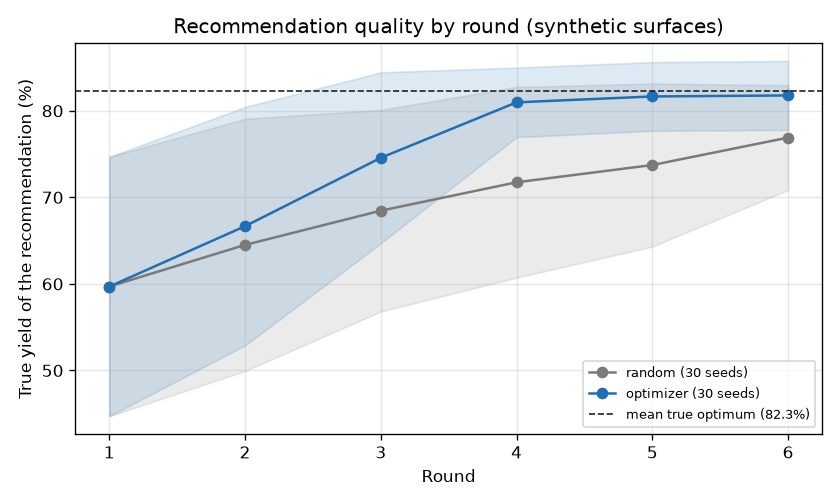
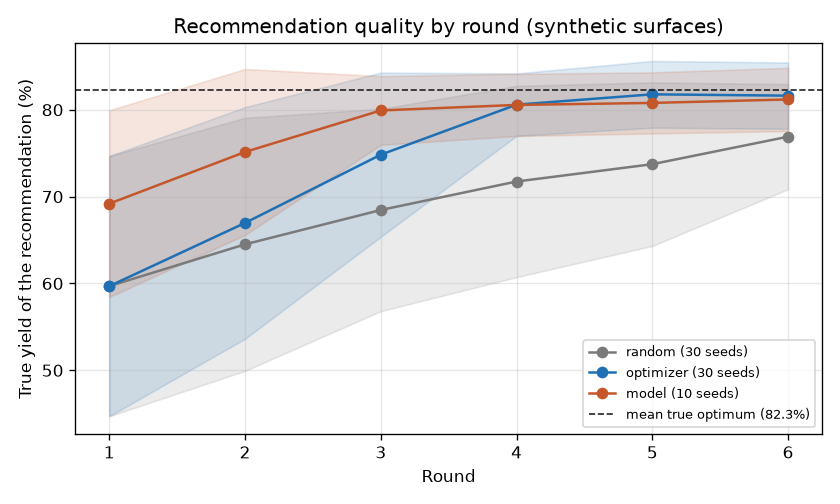
Publish the live benchmark with the model decider on 10 surfaces
The model decider (qwen3.8:27b) did not beat the optimizer: after round 6
it averaged 81.2% true yield against 81.0% on the same 10 surfaces, and
ended within 3 points on 9 of 10 against 10 of 10. README, concepts, and
decisions say so plainly, as SPEC 9.10 asks.

diff --git a/README.md b/README.md
@@ -351,7 +351,7 @@ Commands: `labauto plan "<request>"`, `labauto status <run>`, `labauto approve <
 | NMR readout and spectrum evaluator | simulated, synthetic spectra; the evaluator is classical least squares, tested on synthetic spectra only ([docs/nmr.md](docs/nmr.md)) |
 | Pairing and data reviewer (overwatch) | built and tested; run live on qwen3.8:27b on 12 synthetic fault cases, one trial each, with and without its hint section; it caught 12 and 8 of 13 faults, and two fixed statistics rules caught 13 ([results](#paired-lcms-and-nmr-and-a-data-reviewer)) |
 | Closed loop | built, simulated |
-| Model decider, report model note | built and tested; run live once on qwen3.8:27b (one 6-round campaign, replayed in the demo); the benchmark's model rows are pending |
+| Model decider, report model note | built and tested; run live on qwen3.8:27b in one 6-round campaign (replayed in the demo) and in the benchmark on 10 surfaces, where it did not beat the optimizer |
 | Service API, skill library | not built |
 | Real hardware, LIMS or ELN, cluster deployment | not built |
 
@@ -382,25 +382,41 @@ What these show:
 - Before that change, the most common wrong factor name was `encoding`: the model's reasoning named the factor correctly (`base_equiv`), but the JSON it returned under the server's grammar named it `encoding`. The checks caught it every time. The repair fixed it in 4 of the 8 trials where it happened. In the other 4, the model repeated the same names and the run went to a person; those are all 4 qwen3.8:27b hand-offs in the generic rows. The schema sent to the server now lists the assay's factor names (`reply_schema` in `src/labauto/agents/planner.py`), so the grammar no longer allows another key.
 - Faithful catches what valid does not: scenario 04 ("around our usual conditions") is the one request the model still gets wrong while passing every check. It screened base levels without the usual 1.5 equiv in 2 of 5 trials in each generic run, and in 1 of 5 in each run with factor names.
 
-Closed loop benchmark, from `labauto benchmark --strategies random,optimizer,model --seeds 30 --model-seeds 3 --rounds 6` ([docs/benchmark.md](docs/benchmark.md)). Each of 30 seeds is a different synthetic surface. The score is the true yield of each round's recommendation. This run used the fast path: the plan's volumes stand in for the simulator's ledger.
+Closed loop benchmark, from `labauto benchmark --strategies random,optimizer,model --seeds 30 --model-seeds 10 --rounds 6 --run-dir runs/benchmark/live` ([docs/benchmark.md](docs/benchmark.md)). Each seed is a different synthetic surface. After each round, the recommendation is the tested condition with the highest measured mean, and it is scored by its true yield. This run used the fast path: the plan's volumes stand in for the simulator's ledger. Random and the optimizer ran on 30 surfaces. The model decider (qwen3.8:27b) ran on the first 10, because each of its rounds takes model time.
 
 ![Benchmark](docs/img/benchmark.png)
 
-Mean true yield of the recommendation (%):
+Over all 30 surfaces, random and the optimizer. Mean true yield of the recommendation (%), and below it the share of surfaces within 3 points of the optimum:
 
 | Strategy | Seeds | Round 1 | Round 2 | Round 3 | Round 4 | Round 5 | Round 6 |
 |---|---|---|---|---|---|---|---|
 | random | 30 | 59.7 | 64.5 | 68.5 | 71.7 | 73.7 | 76.9 |
-| optimizer | 30 | 59.7 | 66.7 | 74.6 | 81.0 | 81.7 | 81.8 |
-
-Share of seeds within 3 points of the optimum:
+| optimizer | 30 | 59.7 | 67.0 | 74.8 | 80.6 | 81.8 | 81.6 |
 
 | Strategy | Seeds | Round 1 | Round 2 | Round 3 | Round 4 | Round 5 | Round 6 |
 |---|---|---|---|---|---|---|---|
 | random | 30 | 0.07 | 0.17 | 0.20 | 0.30 | 0.30 | 0.37 |
-| optimizer | 30 | 0.07 | 0.27 | 0.43 | 0.80 | 0.97 | 1.00 |
+| optimizer | 30 | 0.07 | 0.27 | 0.47 | 0.73 | 1.00 | 1.00 |
 
-Mean true optimum over the 30 surfaces: 82.3%. On these surfaces the optimizer found a near optimal condition on every seed by round 6, and random search did on about a third. The model decider has not been run in the benchmark yet, so the model rows are pending (it needs about an hour of GPU time for the minimum 3 seeds). A check against the reference numbers in SPEC.md Appendix C, which hold the surface fixed, is in [docs/benchmark_check.md](docs/benchmark_check.md) (`labauto benchmark --strategies random,optimizer --seeds 12 --model-seeds 3 --rounds 6 --surface-seed 0 --out docs/benchmark_check.md --png docs/img/benchmark_check.png`).
+Mean true optimum over the 30 surfaces: 82.3%. The optimizer found a near optimal condition on every surface by round 5. Random search did on about a third by round 6.
+
+On the 10 surfaces the model ran on, all three strategies. Mean true yield (%), then the share within 3 points:
+
+| Strategy | Seeds | Round 1 | Round 2 | Round 3 | Round 4 | Round 5 | Round 6 |
+|---|---|---|---|---|---|---|---|
+| random | 10 | 69.2 | 70.1 | 71.9 | 74.4 | 74.4 | 78.1 |
+| optimizer | 10 | 69.2 | 73.9 | 78.3 | 80.2 | 81.5 | 81.0 |
+| model | 10 | 69.2 | 75.1 | 79.9 | 80.6 | 80.8 | 81.2 |
+
+| Strategy | Seeds | Round 1 | Round 2 | Round 3 | Round 4 | Round 5 | Round 6 |
+|---|---|---|---|---|---|---|---|
+| random | 10 | 0.20 | 0.30 | 0.30 | 0.40 | 0.40 | 0.60 |
+| optimizer | 10 | 0.20 | 0.60 | 0.80 | 0.80 | 1.00 | 1.00 |
+| model | 10 | 0.20 | 0.60 | 0.80 | 0.90 | 0.90 | 0.90 |
+
+Mean true optimum over these 10 surfaces: 81.7%. The model decider did not beat the optimizer. Its recommendation was a little better in rounds 2 to 4 and about the same after round 6 (81.2% against 81.0%), and it ended within 3 points of the optimum on 9 of 10 surfaces against 10 of 10. What it added is a slightly faster start; what it did not add is a better final pick. 2 of its 50 rounds fell back to the optimizer's picks. Ten surfaces can show only large differences, and none of these is large.
+
+A check against the reference numbers in SPEC.md Appendix C, which hold the surface fixed, is in [docs/benchmark_check.md](docs/benchmark_check.md) (`labauto benchmark --strategies random,optimizer --seeds 12 --model-seeds 3 --rounds 6 --surface-seed 0 --out docs/benchmark_check.md --png docs/img/benchmark_check.png`).
 
 ## Plug in your own
 
@@ -444,7 +460,7 @@ Nothing upstream changes: the design, plan, and worklist are vendor neutral.
 - The Opentrons simulator does not catch an overfilled well, a volume below a pipette's minimum, or a source well drawn dry. Rules in this repository catch those. See [docs/tooling_notes.md](docs/tooling_notes.md).
 - Plates and tips are assumed fresh each round, and reagents topped up between rounds.
 - No scheduler, no multi-instrument coordination, no sample tracking system.
-- Results depend on the model. The planner evaluation covers two local models (the second on the core set only), three test sets, and 5 trials per request; the model decider ran live in one campaign. The test sets were drafted by the same AI assistant that built the planner and reviewed by the owner; a test set written by someone outside would be a stronger test.
+- Results depend on the model. The planner evaluation covers two local models (the second on the core set only), three test sets, and 5 trials per request; the model decider ran live in one campaign and on 10 benchmark surfaces. The test sets were drafted by the same AI assistant that built the planner and reviewed by the owner; a test set written by someone outside would be a stronger test.
 - The NMR spectra are synthetic, and the fitter models them with the same line shapes the simulator uses, so its accuracy is a lower bound on what real spectra would give. The data reviewer evaluation has 12 fault cases, each on one seed with one model trial. The model has not run on the 120 extra plates the fixed rules were scored on.
 
 ## What real hardware would add

diff --git a/docs/decisions.md b/docs/decisions.md
@@ -173,12 +173,13 @@ library, or where a fallback was taken. Open problems are at the end.
 - The optimizer's rows changed with the BLAS thread count (found by running the benchmark check in a fresh clone with `OPENBLAS_NUM_THREADS=1`). Thompson sampling draws through a factorization of a nearly singular covariance, which amplifies the summation order of a threaded BLAS. The Gaussian process now fits, predicts, and samples on one thread (`labauto.blas.one_blas_thread`), so a seed gives the same picks on any thread count. `docs/benchmark_check.md` was regenerated with the same command: the optimizer rows moved by under a point and stay near Appendix C (85.7 against 85.4 after round 6); the random rows did not change. The demo's tables and the README's campaign excerpt did not change. One thread is slower for this sampling.
 - `labauto eval-reviewer-sweep <eval-reviewer run>` runs the overwatch on the plates of an earlier baseline sweep, read from their stored evidence packs, so the model is compared with the fixed rules on the same 120 plates. It writes `docs/reviewer_sweep.md` (or `_no_hints.md`). It resumes with `--resume`, stops after 3 outages in a row, refuses to resume with another kind of client, and the page warns in bold if more than one model answered. `--cases` sets the order, so the hard plates can run first.
 - Every transcript line now carries `schema_hash`, a short hash of the JSON schema sent with the call. Recordings made before and after the reply schema named the factors can be told apart. Older recordings have no such field.
+- The benchmark's model row ran live on qwen3.8:27b on 10 surfaces (`--model-seeds 10`, above SPEC's minimum of 3, to make the same-surface comparison less noisy), at commit acb91a5 in a clean worktree: 126 model calls, none replayed, in about 67 minutes. On those 10 surfaces the model ended at 81.2% true yield after round 6 against the optimizer's 81.0% and an optimum of 81.7%, within 3 points on 9 of 10 surfaces against 10 of 10, and 2 of 50 rounds fell back. It did not beat the optimizer; README.md and `docs/concepts.md` say so in plain words, as SPEC 9.10 asks. The optimizer's 30-surface rows on that page also moved slightly from the earlier page (81.8% to 81.6% after round 6), because the optimizer now runs on one BLAS thread. The model's call transcripts stay in the run folder and are not committed.
 - numpy and threadpoolctl are now declared dependencies; both were used directly. ruff is pinned, so a new ruff release cannot fail CI with no change to the code.
 
 ## Open problems
 
-- The hosted rung has not run on a model, because no hosted model is configured. The model decider row of the benchmark is still pending: it needs `labauto benchmark --strategies random,optimizer,model` against the configured endpoint, about an hour of GPU time for the minimum 3 seeds.
-- The model decider's prompt and the 120 word report note limit have met a real model in one campaign only (no fallback, round 6 used both retries, the note passed its check), so how often real replies need the retries and the fallback is still unknown.
+- The hosted rung has not run on a model, because no hosted model is configured.
+- The model decider has met a real model in one campaign and on 10 benchmark surfaces: 2 of its 50 benchmark rounds fell back to the optimizer. The 120 word report note has met a real model once (it passed its check). Ten surfaces are too few to say whether a better prompt or a larger model would let it beat the optimizer.
 - The overwatch has not run on the 120 sweep plates, where the fixed rules miss 6 of 40 hard faults and name 79 of 143 faulty wells. That is the test that could show a model adding something over fixed rules. It needs 10 times the model calls of the case table.
 - PyLabRobot's `DiTi_*_LiHa` tip definitions warn that their total tip length is zero or less. This does not affect the bookkeeping here, but a backend driving real hardware would need correct tip definitions.
 - No stage hit the stuck rule (three failed approaches to one problem). Stage 1b finished well inside its effort cap.

diff --git a/docs/benchmark.md b/docs/benchmark.md
@@ -6,30 +6,58 @@ After each round, the recommendation is the tested condition with the highest me
 
 This run used the fast path: the plan's volumes stand in for the simulator's ledger, and compile and simulate are skipped. `labauto loop` runs the full path.
 
-Command: `labauto benchmark --strategies random,optimizer,model --seeds 30 --model-seeds 3 --rounds 6`
+Command: `labauto benchmark --strategies random,optimizer,model --seeds 30 --model-seeds 10 --rounds 6 --run-dir runs/benchmark/live`
 
 ## Mean true yield of the recommendation (%)
 
 | Strategy | Seeds | Round 1 | Round 2 | Round 3 | Round 4 | Round 5 | Round 6 |
 |---|---|---|---|---|---|---|---|
 | random | 30 | 59.7 | 64.5 | 68.5 | 71.7 | 73.7 | 76.9 |
-| optimizer | 30 | 59.7 | 66.7 | 74.6 | 81.0 | 81.7 | 81.8 |
+| optimizer | 30 | 59.7 | 67.0 | 74.8 | 80.6 | 81.8 | 81.6 |
+| model | 10 | 69.2 | 75.1 | 79.9 | 80.6 | 80.8 | 81.2 |
 
 ## Share of seeds within 3 points of the optimum
 
 | Strategy | Seeds | Round 1 | Round 2 | Round 3 | Round 4 | Round 5 | Round 6 |
 |---|---|---|---|---|---|---|---|
 | random | 30 | 0.07 | 0.17 | 0.20 | 0.30 | 0.30 | 0.37 |
-| optimizer | 30 | 0.07 | 0.27 | 0.43 | 0.80 | 0.97 | 1.00 |
+| optimizer | 30 | 0.07 | 0.27 | 0.47 | 0.73 | 1.00 | 1.00 |
+| model | 10 | 0.20 | 0.60 | 0.80 | 0.90 | 0.90 | 0.90 |
 
 Mean true optimum over the 30 surfaces: 82.3%.
 
+The model ran on 10 seeds and the others on more, so the tables above do not compare them on the same seeds. See "On the model's seeds" below.
+
 ![Benchmark](img/benchmark.png)
 
-- model: not run, no model endpoint configured; live results pending.
+- model: 2 of 50 decided rounds fell back to the optimizer's picks.
 - random: 1 s for 30 seeds.
-- optimizer: 157 s for 30 seeds.
+- optimizer: 287 s for 30 seeds.
+- model: 3998 s for 10 seeds.
+- model: its calls are recorded in `runs/benchmark/live/model/`, one file per seed. Model calls: 126 made in this run, 0 replayed from an earlier run in that folder.
 
-Model: none (no model strategy was run)  
-Date: 2026-11-11  
-Git commit: b306dfd
+## On the model's seeds
+
+These tables score every strategy on seeds 1 to 10, the only seeds the model ran on, so compare the model with the others here and not in the tables above.
+
+### Mean true yield of the recommendation (%)
+
+| Strategy | Seeds | Round 1 | Round 2 | Round 3 | Round 4 | Round 5 | Round 6 |
+|---|---|---|---|---|---|---|---|
+| random | 10 | 69.2 | 70.1 | 71.9 | 74.4 | 74.4 | 78.1 |
+| optimizer | 10 | 69.2 | 73.9 | 78.3 | 80.2 | 81.5 | 81.0 |
+| model | 10 | 69.2 | 75.1 | 79.9 | 80.6 | 80.8 | 81.2 |
+
+### Share of seeds within 3 points of the optimum
+
+| Strategy | Seeds | Round 1 | Round 2 | Round 3 | Round 4 | Round 5 | Round 6 |
+|---|---|---|---|---|---|---|---|
+| random | 10 | 0.20 | 0.30 | 0.30 | 0.40 | 0.40 | 0.60 |
+| optimizer | 10 | 0.20 | 0.60 | 0.80 | 0.80 | 1.00 | 1.00 |
+| model | 10 | 0.20 | 0.60 | 0.80 | 0.90 | 0.90 | 0.90 |
+
+Mean true optimum over these 10 surfaces: 81.7%.
+
+Model: qwen3.8:27b  
+Date: 2026-11-12  
+Git commit: v0.3-closed-loop-25-gacb91a5

diff --git a/docs/concepts.md b/docs/concepts.md
@@ -155,15 +155,18 @@ design, plan, and worklist layers and the approval gate would stay as they are.
 
 ### Did the model decider beat the optimizer, and what does that say?
 
-Not across many surfaces yet. The benchmark ([benchmark.md](benchmark.md))
-has so far run the random and optimizer strategies; its model row is pending.
-Over 30 synthetic surfaces, the optimizer's recommendation after 6 rounds
-averaged 81.8% true yield against a mean optimum of 82.3%, and was within 3
-points of the optimum on a share of 1.00 of the surfaces. Random search reached
-76.9% and a share of 0.37. Those are the numbers a model decider has to beat.
+No. The benchmark ([benchmark.md](benchmark.md)) ran it on qwen3.8:27b on 10
+synthetic surfaces, and the optimizer and random search on the same 10. After
+6 rounds the model's recommendation averaged 81.2% true yield, the optimizer's
+81.0%, and random search's 78.1%, against a mean optimum of 81.7%. The model was
+a little ahead in rounds 2 to 4. It ended within 3 points of the optimum on 9
+of 10 surfaces, the optimizer on 10 of 10. 2 of its 50 rounds fell back to the
+optimizer's picks. So the model, given the optimizer as a tool, chose about as
+well as the optimizer alone: it started slightly faster and did not finish
+better. Ten surfaces can show only large differences.
 
-The model decider has run live once, on qwen3.8:27b through Ollama: one 6-round
-campaign on surface seed 0. It chose rounds 2 to 6 with no fallback. In round
+Before the benchmark, the model decider ran live in one 6-round campaign on
+surface seed 0. It chose rounds 2 to 6 with no fallback. In round
 6, code refused its first two final answers because they repeated too many
 tested conditions, and the third passed. It recommended catalyst 6.5 mol %,
 base 1.75 equiv, co-solvent 20 %, measured at 86.6% over 9 wells, which is the
@@ -171,5 +174,4 @@ surface's grid optimum. One campaign on one surface is an example, not a
 comparison. Its calls are in `examples/recordings/decider.jsonl`. The demo
 replays rounds 2 and 3 from it, and
 `labauto loop --strategy model --approval auto_demo --rounds 6 --seed 1 --surface-seed 0 --client replay:examples/recordings/decider.jsonl`
-replays all six rounds. The fallback to the optimizer has been shown only by
-tests with scripted replies.
+replays all six rounds.
